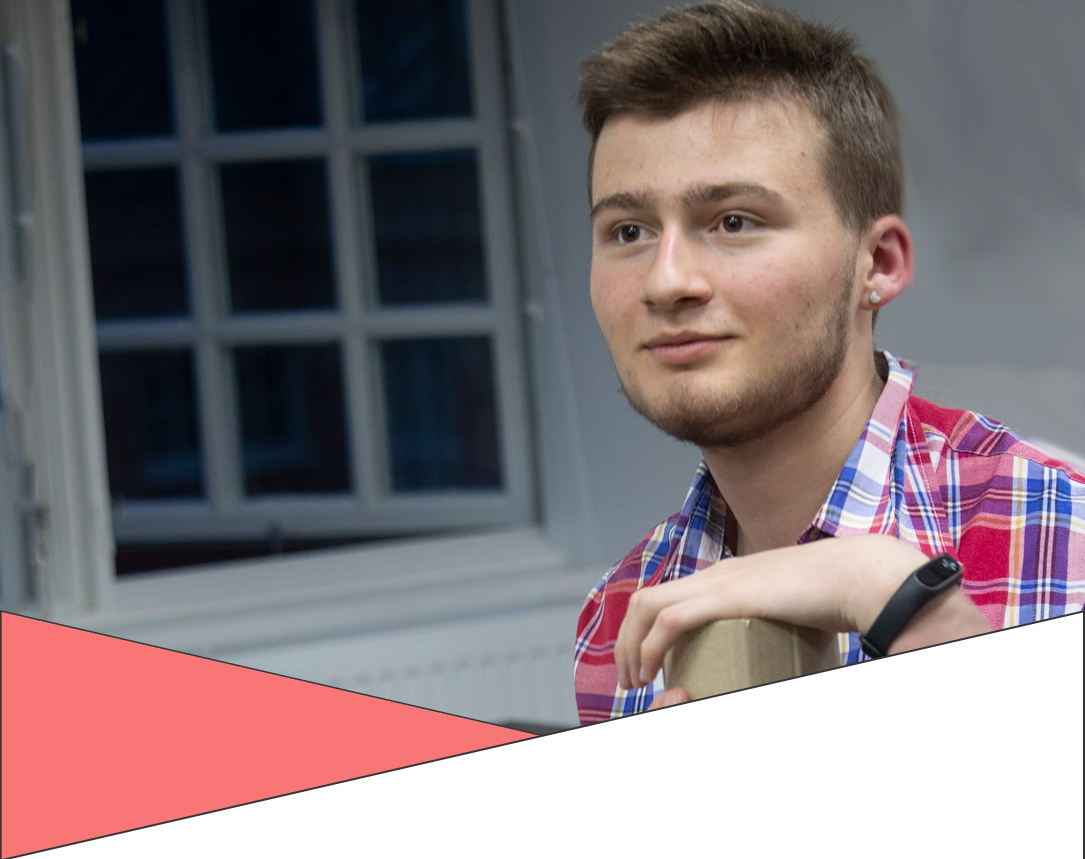
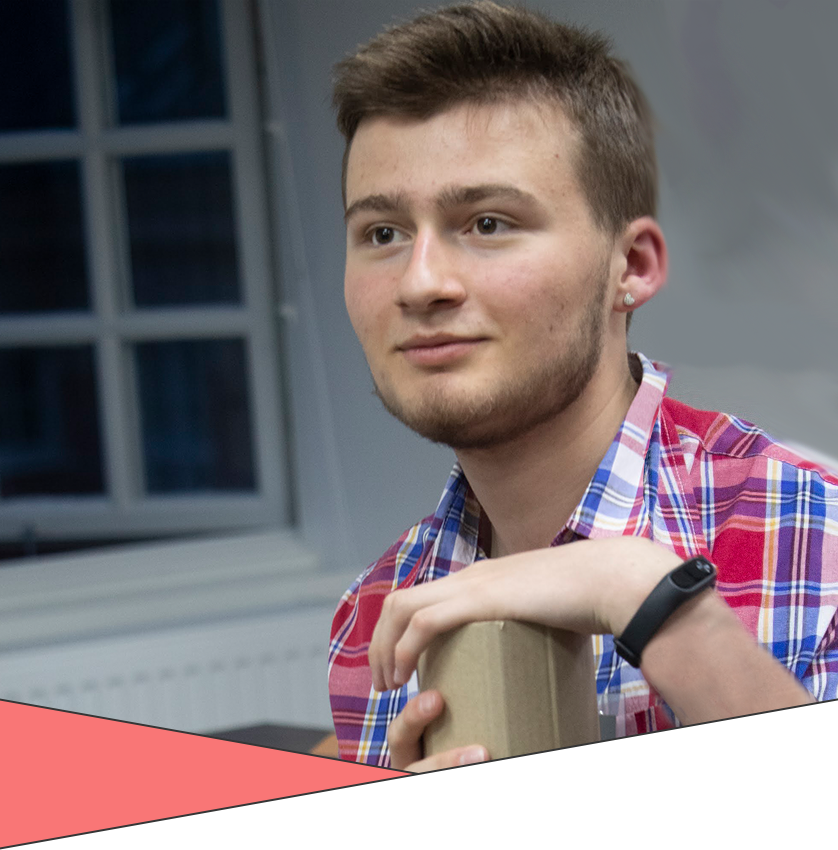
mobile optimized finished

diff --git a/style/mobile.css b/style/mobile.css
@@ -70,6 +70,8 @@ footer {
 
 li {
     list-style: none;
+    margin: 0rem;
+    padding: 0rem;
 }
 
 .desktopOnly {
@@ -88,7 +90,7 @@ li {
 }
 
 #welcomeTextWrapper {
-    margin: 3rem 0rem 10rem 0rem;
+    margin: 0rem 0rem 8rem 0rem;
 
     display: flex;
     flex-flow: column wrap;
@@ -96,7 +98,9 @@ li {
     text-align: center;
 
     font-size: 1rem;
+}
 
+#welcomePageH1 {
     max-width: 90%;
 }
 
@@ -111,7 +115,7 @@ li {
     margin: 0rem;
     padding: 0rem;
 
-    width: 100vh;
+    width: 100%;
 }
 
 /* Portfolio Page */
@@ -125,56 +129,59 @@ li {
 
 #portfolioPageH1 {
     margin: 1rem;
-    padding: 0rem;
+    padding: 1rem 0rem 0rem 0rem;
 }
 
 #portfolioDescription {
     margin: 0rem 0rem 5rem 0rem;
     padding: 0rem;
 
-    max-width: 65%;
+    max-width: 85%;
 }
 
 #portfolioUnorderedList {
-    max-width: 90%;
+    margin: 0rem;
+    padding: 0rem;
+
+    max-width: 95%;
 
     display: flex;
     flex-flow: column nowrap;
+    justify-content: center;
 
     gap: 2rem;
 }
 
 .portfolioListElement {
-    max-width: 90rem;
     background-color: rgb(235, 235, 235);
     color: black;
     border: black solid 1px;
-
-    padding: 0rem;
-    margin: 0rem;
+    
+    padding: 0rem 0rem 2rem 0rem;
+    margin: 0rem 0rem 1rem 0rem;
 
     border-radius: 2rem;
 
     display: flex;
-    flex-flow: row nowrap;
+    flex-flow: column nowrap;
 }
 
 .portfolioElementImg {
     aspect-ratio: 1/1;
     object-fit: cover;
-    margin: 0;
-    padding: 0;
+    margin: 0rem;
+    padding: 0rem;
 
-    border-radius: 2rem 0rem 0rem 2rem;
+    border-radius: 2rem 2rem 0rem 0rem;
 
-    max-height: 19rem;
+    max-height: 20rem;
 
     transform: scale(1);
     transition: transform .3s ease-in-out;
 }
 
 .portfolioElementImg:hover {
-    border-radius: 2rem .8rem .8rem 2rem;
+    border-radius: 2rem 2rem .8rem .8rem;
     transform: scale(1.05);
 }
 
@@ -189,7 +196,7 @@ li {
 }
 
 .portfolioElementParagraph {
-    padding: 0rem 3rem 0rem 3rem;
+    padding: 0rem 2rem 0rem 2rem;
     margin: 0;
-    max-width: 28rem;
+    max-width: 95%;
 }

diff --git a/index.html b/index.html
@@ -30,7 +30,7 @@
     <section id="welcomePage">
         <div id="welcomeTextWrapper">
             <img id="welcomePageImage" class="mobileOnly" src="images/viggoPortraitMobile.png" alt="a portait picture of me (viggo)">
-            <h1>
+            <h1 id="welcomePageH1">
                 Hi, Welcome to my Portfolio Page!
             </h1>
             <p id="welcomeParagraph">
